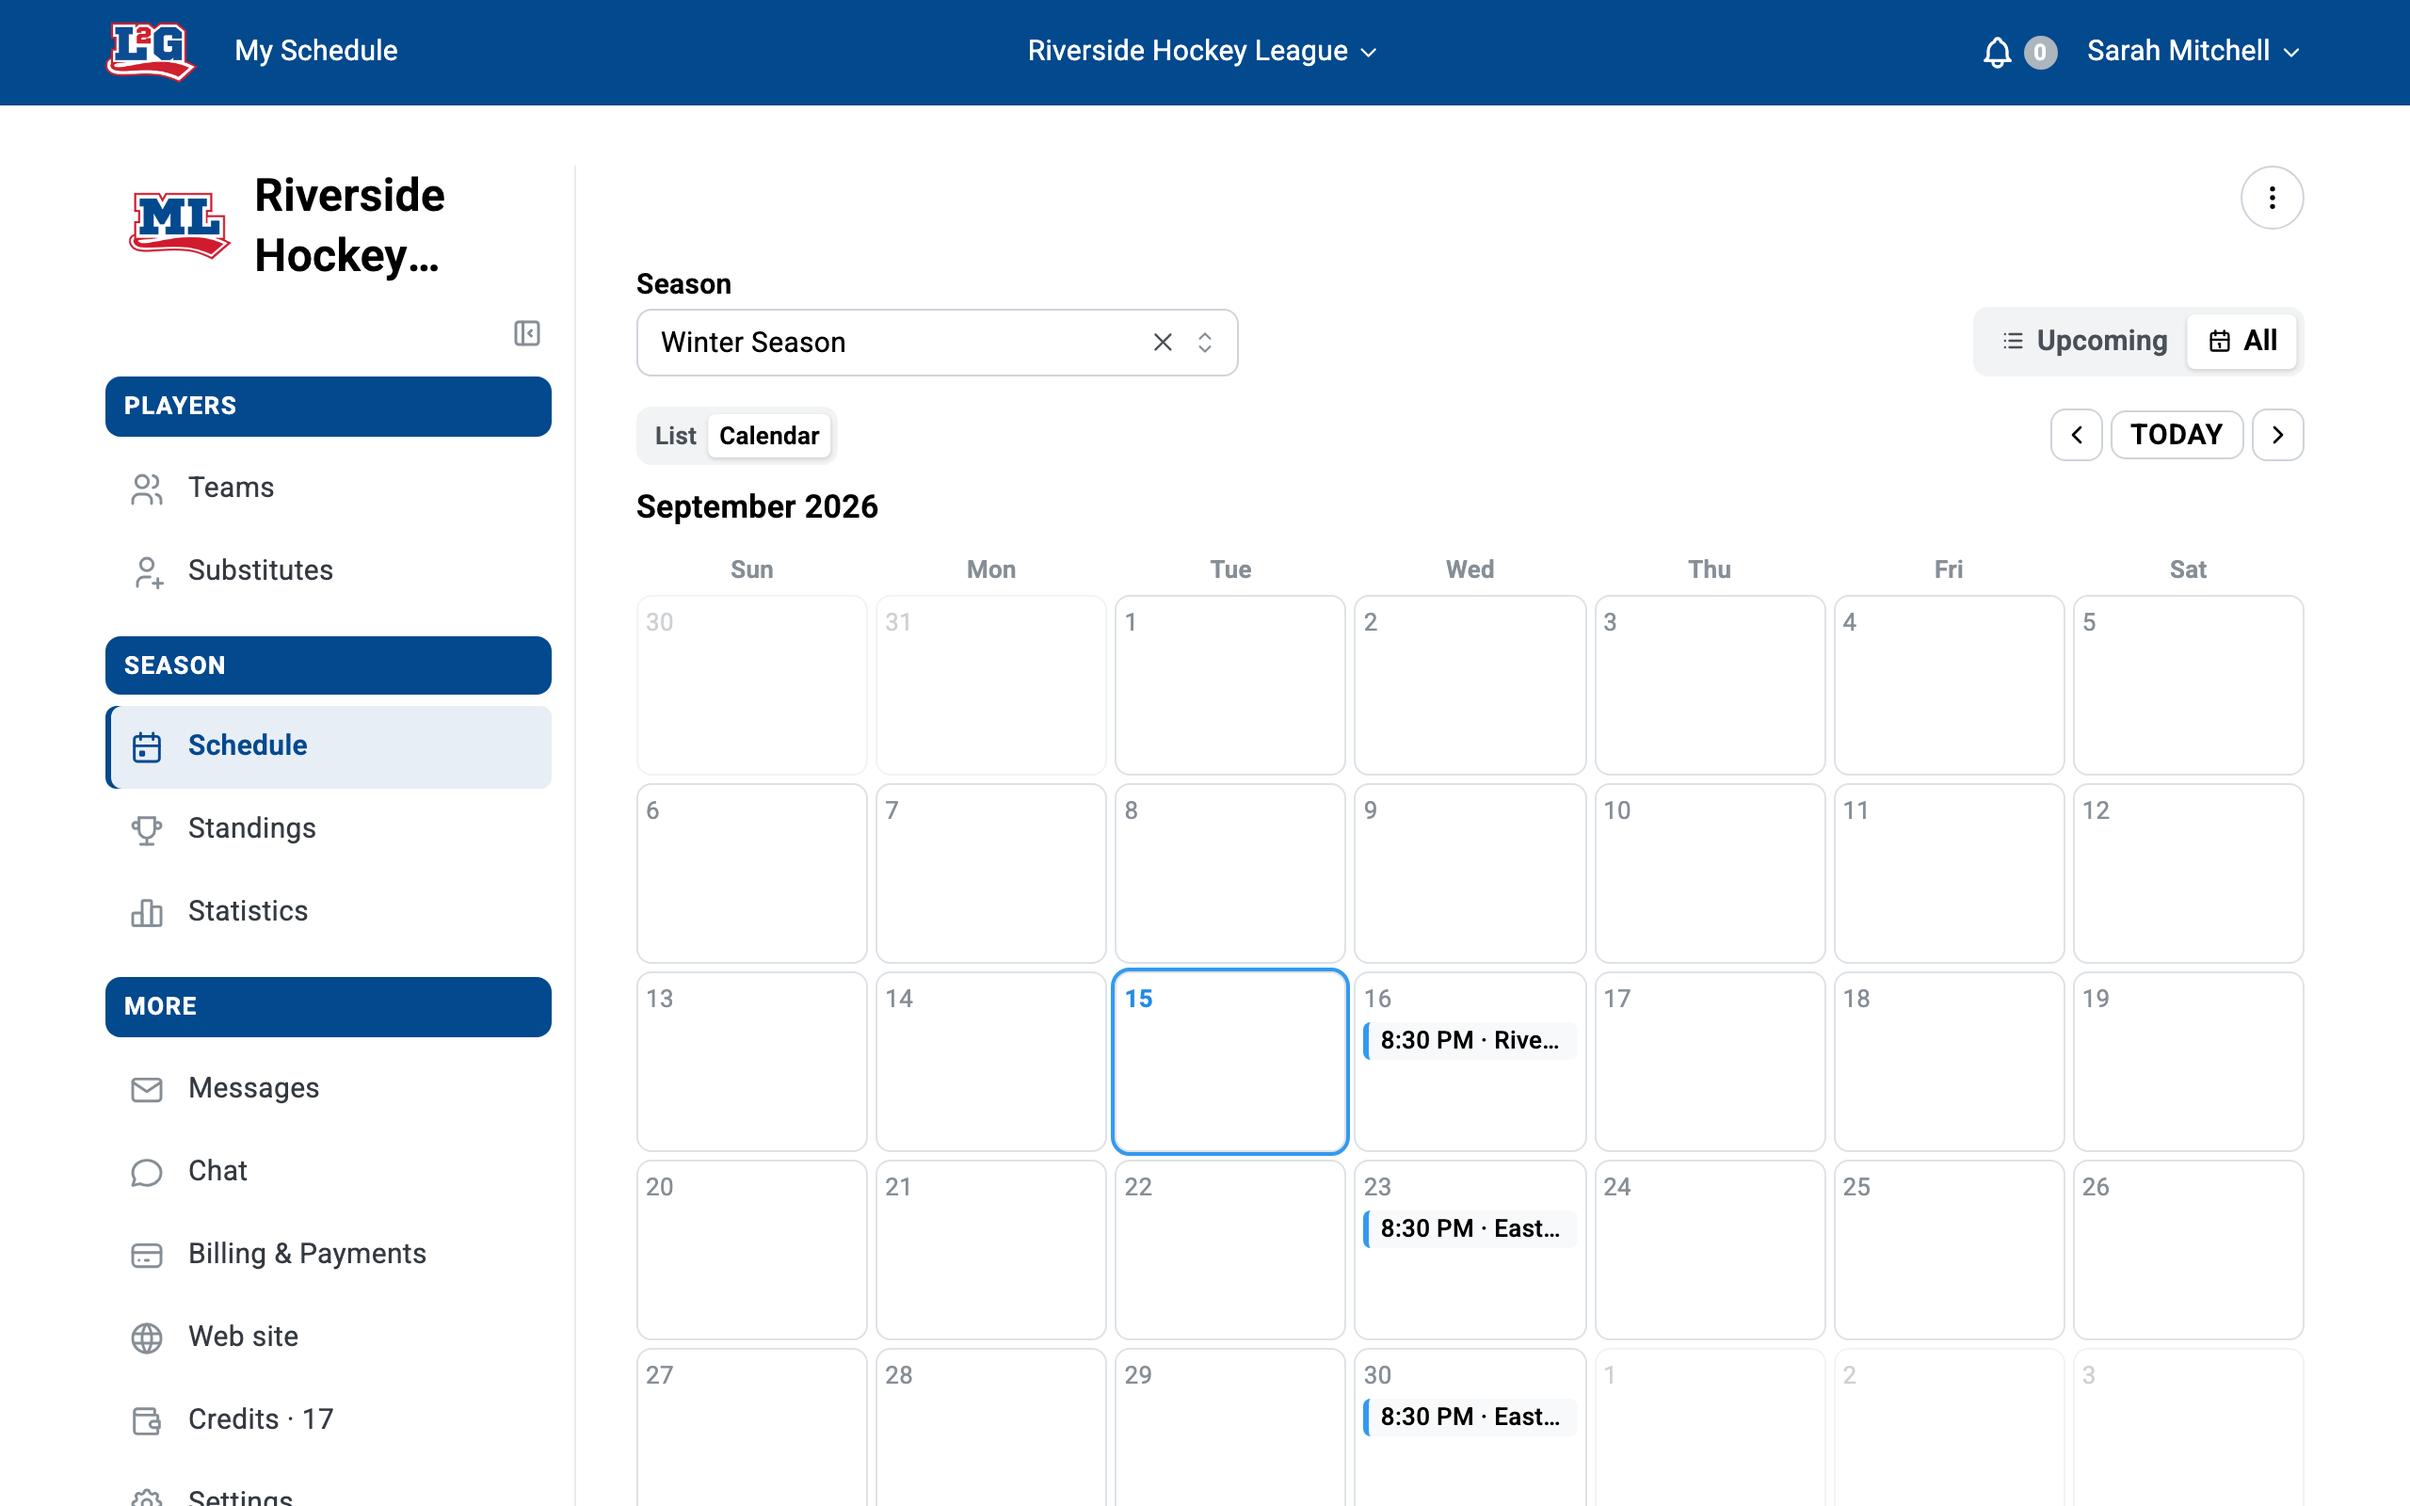
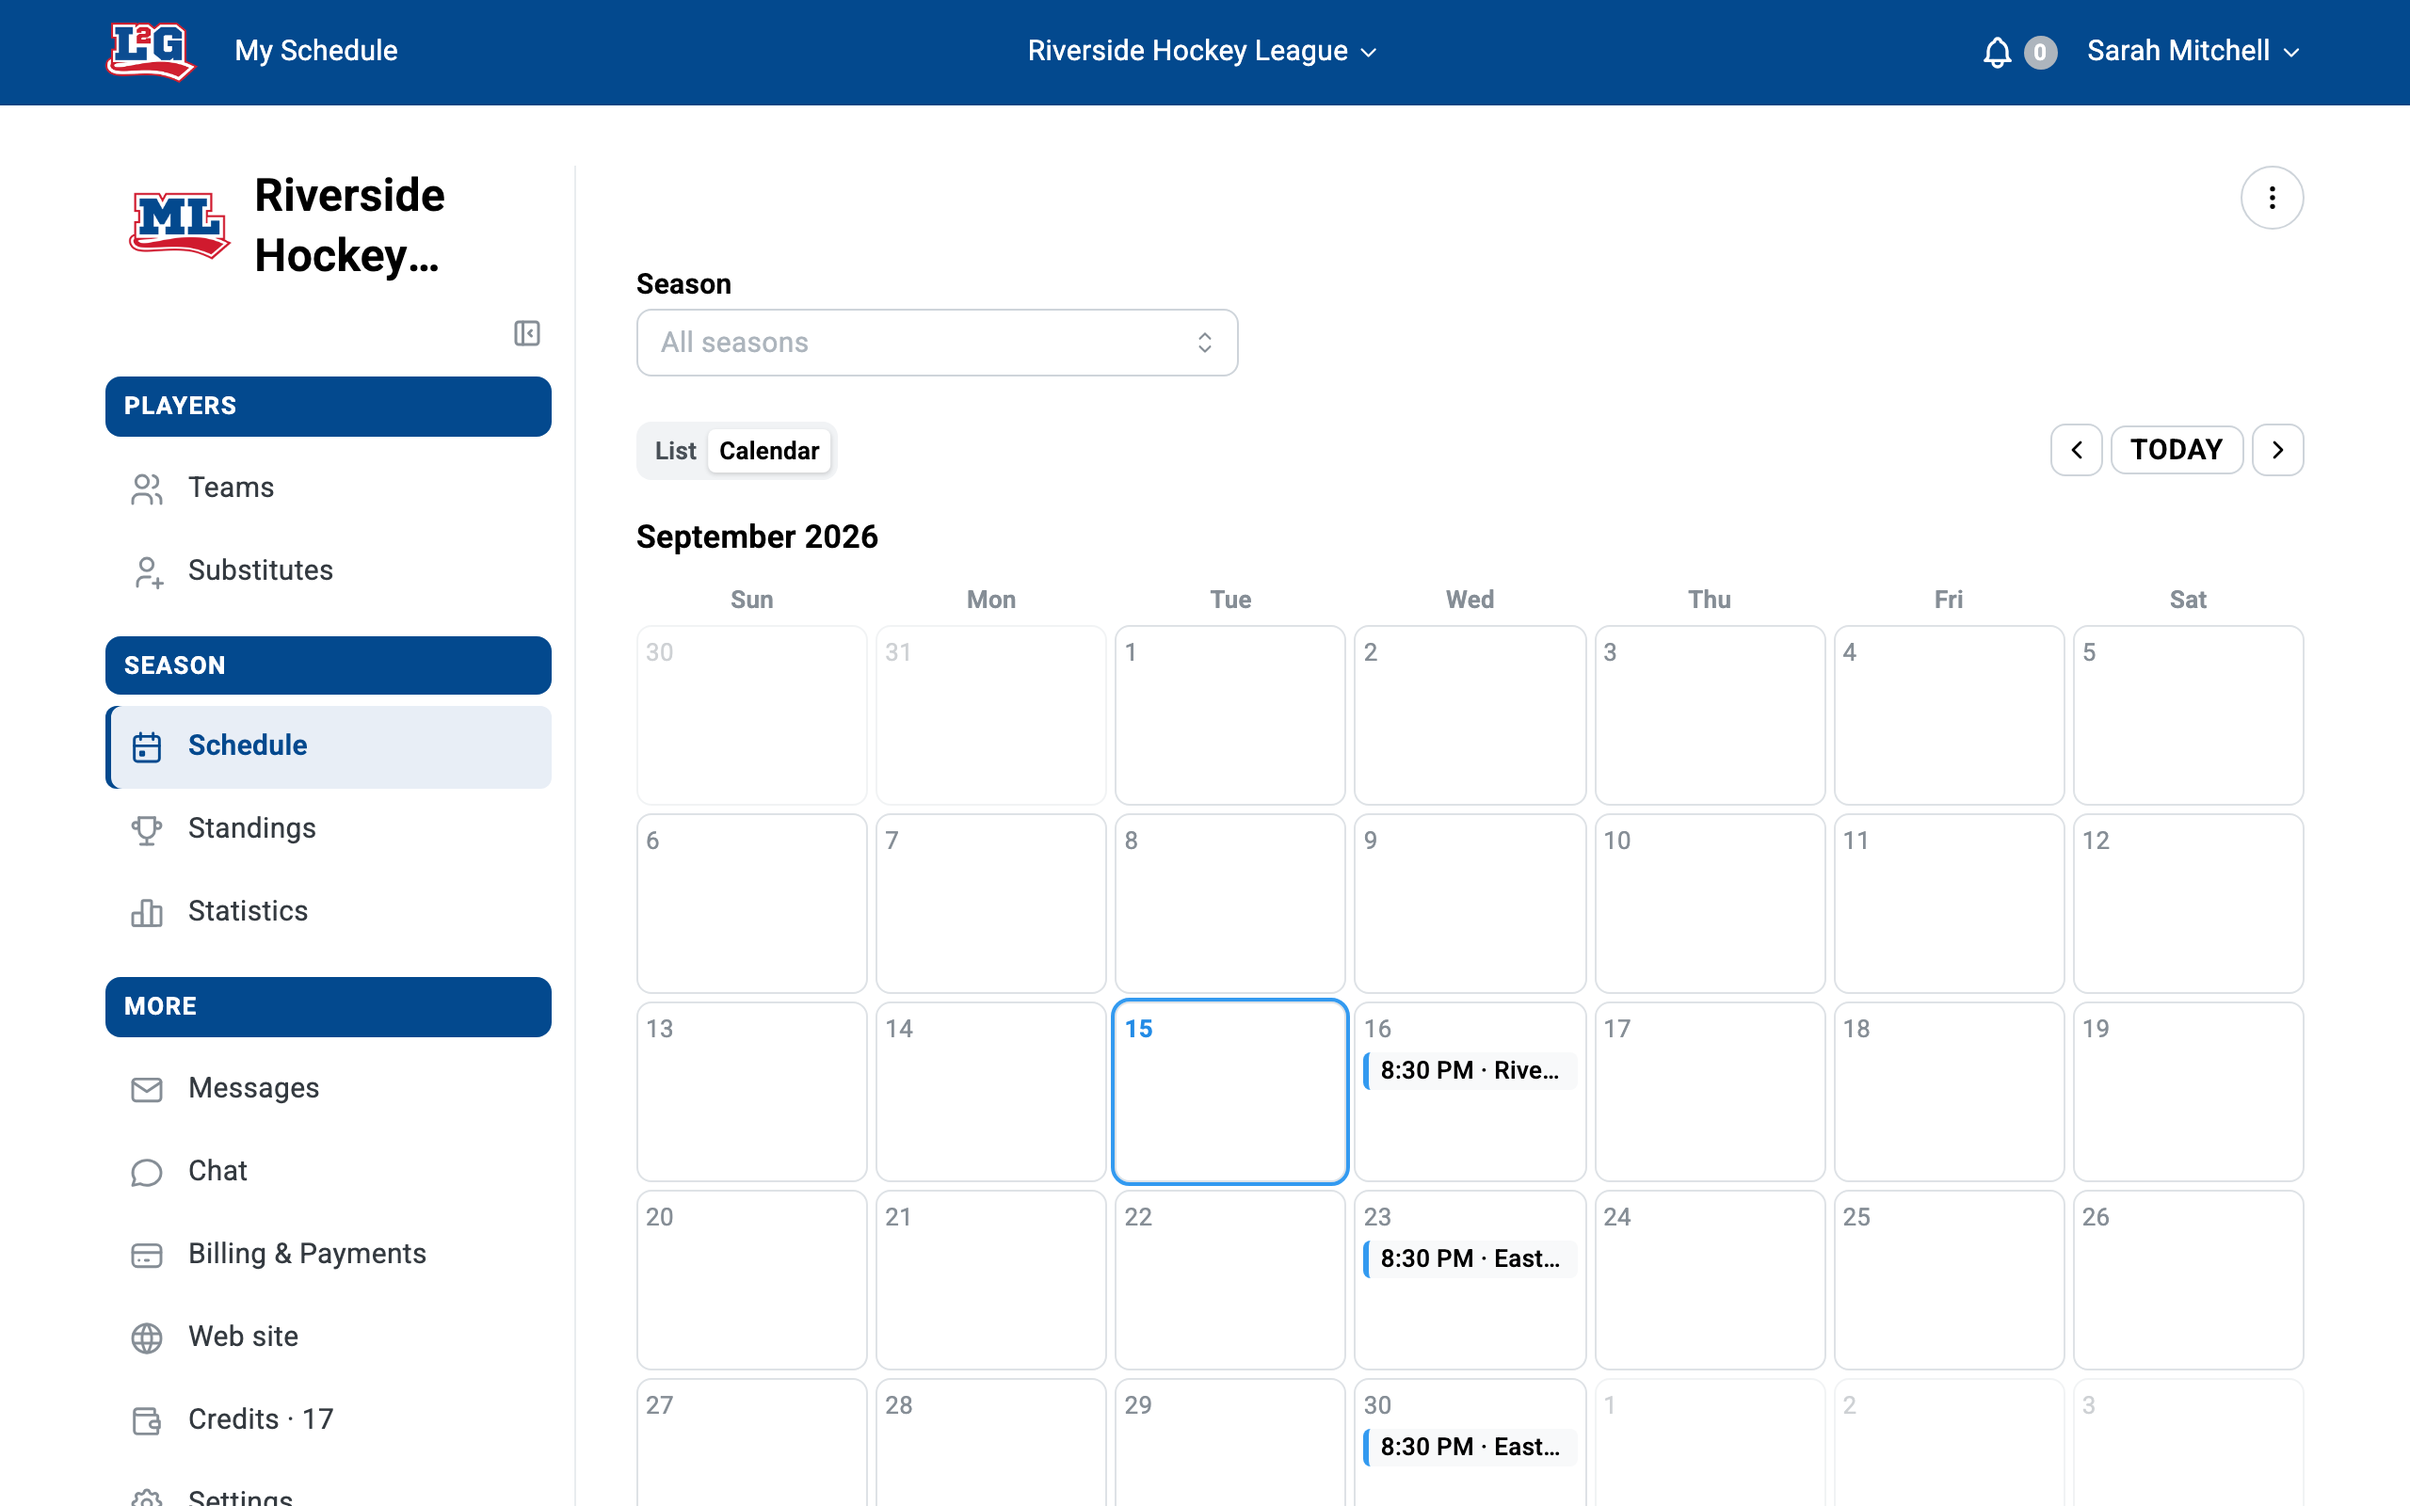
Show the one-list schedule in the help center, and say the schedule opens on every season
The manager schedule no longer has an Upcoming | All switch and opens on
all seasons, so the schedule and seasons figures are retaken from the
app, and the articles no longer say a season always filters the
schedule. The calendar colour list now matches the app (no yellow), the
schedule is reached through Season > Schedule, and three figures pick
up the absent player's jersey number.

Claude-Session: https://claude.ai/code/session_01L11YxnCwSRKNcCWoW1qXfw

diff --git a/_help/fr/saisons.md b/_help/fr/saisons.md
@@ -7,18 +7,18 @@ order: 40
 description: "Organisez les parties, le classement et les statistiques par saison, et retrouvez les parties masquées par le filtre de saison."
 ---
 
-Les saisons regroupent les parties, le classement et les statistiques de votre ligue. Chaque saison a une date de début et une date de fin, et la saison sélectionnée agit comme un filtre : le calendrier, le classement et les statistiques affichent seulement ce qui se trouve dans sa plage de dates. Vos joueurs consultent ainsi seulement les parties pertinentes à leur calendrier plutôt que des années d'historique.
+Les saisons regroupent les parties, le classement et les statistiques de votre ligue. Chaque saison a une date de début et une date de fin. Le classement et les statistiques s'ouvrent sur la saison en cours : ils repartent donc à zéro chaque année. Le calendrier s'ouvre sur **Toutes les saisons**; choisissez une saison et il affiche seulement les parties comprises dans ses dates.
 
 ## « Mes parties ont disparu »
 
-Si des parties manquent dans votre calendrier, le filtre de saison en est presque toujours la cause : les parties se trouvent en dehors de la plage de dates de la saison sélectionnée. Rien n'est supprimé : les parties sont seulement masquées.
+Si vous avez choisi une saison et que des parties manquent dans votre calendrier, le filtre de saison en est la cause : ces parties se trouvent en dehors des dates de cette saison. Rien n'est supprimé : les parties sont seulement masquées.
 
 Pour les revoir, faites l'une des deux choses suivantes :
 
-* **Effacez le filtre** : cliquez sur le **X** à côté du nom de la saison au-dessus du calendrier. Toutes les parties s'affichent de nouveau, peu importe la saison.
+* **Affichez toutes les saisons** : cliquez sur **Voir toutes les saisons** au-dessus de la liste, ou sur le **X** à côté du nom de la saison. Le calendrier revient à **Toutes les saisons**.
 * **Prolongez les dates de la saison** : dans les paramètres de votre ligue, modifiez la saison pour que ses dates de début et de fin couvrent les dates des parties.
 
-{% include image.html src="help/seasons-schedule-filter.fr.png" caption="Le calendrier de la ligue avec la saison en cours sélectionnée dans le filtre Saison; le X à côté du nom de la saison efface le filtre et affiche les parties de toutes les saisons." %}
+{% include image.html src="help/seasons-schedule-filter.fr.png" caption="Le calendrier de la ligue avec une saison choisie dans le filtre Saison; Voir toutes les saisons, ou le X à côté du nom de la saison, efface le filtre et affiche les parties de toutes les saisons." %}
 
 ## Créer une saison
 

diff --git a/_help/fr/calendrier-et-parties.md b/_help/fr/calendrier-et-parties.md
@@ -13,7 +13,7 @@ Le calendrier de la ligue est l'endroit où vous créez et gérez vos parties, s
 
 ## Créer des parties
 
-À partir de l'onglet Calendrier de votre ligue, cliquez sur le bouton **Ajouter une partie** et entrez l'information demandée. Chaque partie consomme un crédit de partie (voir [prix et crédits de partie](/prix-et-credits-de-partie/#acheter-des-crédits-de-partie)).
+Dans votre ligue, allez dans **Saison** > **Calendrier**, cliquez sur le bouton **Ajouter une partie** et entrez l'information demandée. Chaque partie consomme un crédit de partie (voir [prix et crédits de partie](/prix-et-credits-de-partie/#acheter-des-crédits-de-partie)).
 
 Si vos parties sont hebdomadaires, utilisez l'option **Répéter l'horaire des parties** pour automatiquement créer plusieurs parties avec les mêmes paramètres.
 
@@ -23,9 +23,9 @@ Si vos parties sont hebdomadaires, utilisez l'option **Répéter l'horaire des p
 
 Des codes de couleur permettent de distinguer les parties en un coup d'œil :
 
-* **Bleu** : la prochaine partie.
-* **Rouge** : les parties dans lesquelles il manque présentement des joueurs.
-* **Jaune** : les parties passées dont les résultats restent à entrer.
+* **Bleu** : les parties à venir.
+* **Rouge** : une partie à venir où il manque encore un joueur, ou une partie passée dont le pointage reste à entrer.
+* **Gris** : les parties complétées et les pratiques.
 
 {% include image.html src="help/schedule-color-codes.fr.png" caption="Les codes de couleur du calendrier mensuel : les parties à venir portent un accent bleu, une partie passée sans résultats est en rouge, et les parties complétées deviennent grises avec le pointage final." %}
 
@@ -52,7 +52,7 @@ Les parties dont l'heure de début est passée ne peuvent pas être supprimées 
 
 ## « Mes parties ont disparu »
 
-Si des parties manquent dans le calendrier, elles sont presque certainement masquées par le **filtre de saison** : les parties en dehors de la plage de dates de la saison sélectionnée ne sont pas affichées. Effacez le filtre avec le X à côté du nom de la saison, ou ajustez les dates de la saison. Voir [saisons](/saisons/#-mes-parties-ont-disparu-) pour les détails.
+Si vous avez choisi une saison et que des parties manquent, le **filtre de saison** les masque : il affiche seulement les parties comprises dans les dates de cette saison. Cliquez sur **Voir toutes les saisons** (ou sur le X à côté du nom de la saison), ou ajustez les dates de la saison. Voir [saisons](/saisons/#-mes-parties-ont-disparu-) pour les détails.
 
 ## Articles reliés
 

diff --git a/_help/en/schedule-and-calendar.md b/_help/en/schedule-and-calendar.md
@@ -13,7 +13,7 @@ The league calendar is where you create and manage your games, on the website or
 
 ## Creating games
 
-From your league's calendar tab, click the **Add game** button and enter the requested information. Each game consumes one game credit. See [pricing and game credits](/pricing-and-game-credits/#buying-game-credits).
+In your league, go to **Season** > **Schedule**, click the **Add game** button and enter the requested information. Each game consumes one game credit. See [pricing and game credits](/pricing-and-game-credits/#buying-game-credits).
 
 If your games are weekly, use the **Repeat game schedule** option to automatically create multiple games with the same settings.
 
@@ -23,9 +23,9 @@ If your games are weekly, use the **Repeat game schedule** option to automatical
 
 Color codes help you distinguish games at a glance:
 
-* **Blue**: the next game.
-* **Red**: games where players are currently missing.
-* **Yellow**: past games waiting for their results to be entered.
+* **Blue**: upcoming games.
+* **Red**: an upcoming game still missing a player, or a past game waiting for its score.
+* **Gray**: completed games and practices.
 
 {% include image.html src="help/schedule-color-codes.en.png" caption="The month calendar's color codes: upcoming games carry a blue accent, a past game still waiting for its score is red, and completed games turn gray with the final score inline." %}
 
@@ -52,7 +52,7 @@ Games whose start time has passed cannot be deleted by managers. If you need to 
 
 ## "My games disappeared"
 
-If games are missing from the calendar, they are almost certainly hidden by the **season filter**: games outside the selected season's date range are not shown. Clear the filter with the X beside the season name, or adjust the season dates. See [seasons](/seasons/#my-games-disappeared) for details.
+If you picked a season and games are missing, the **season filter** is hiding them: it only shows games inside that season's dates. Click **Show all seasons** (or the X beside the season name), or adjust the season dates. See [seasons](/seasons/#my-games-disappeared) for details.
 
 ## Related articles
 

diff --git a/_help/en/seasons.md b/_help/en/seasons.md
@@ -7,18 +7,18 @@ order: 40
 description: "Organize games, standings, and statistics by season, and find games hidden by the season filter."
 ---
 
-Seasons group your league's games, standings, and statistics. Each season has a start and end date, and the selected season acts as a filter: the calendar, standings, and statistics only show what falls inside its date range. This keeps players focused on the current schedule instead of years of history.
+Seasons group your league's games, standings, and statistics. Each season has a start and end date. Standings and statistics open on the current season, so they start fresh each year. The schedule opens on **All seasons**; pick a season and it only shows the games inside that season's dates.
 
 ## "My games disappeared"
 
-If games are missing from your calendar, the season filter is almost always the reason: the games fall outside the date range of the currently selected season. Nothing is deleted; the games are only hidden.
+If you picked a season and games are missing from your schedule, the season filter is the reason: those games fall outside that season's dates. Nothing is deleted; the games are only hidden.
 
 To see them again, do one of the following:
 
-* **Clear the filter**: click the **X** beside the season name above the calendar. All games are shown again, regardless of season.
+* **Show every season**: click **Show all seasons** above the list, or the **X** beside the season name. The schedule goes back to **All seasons**.
 * **Extend the season dates**: in your league settings, edit the season so its start and end dates cover the games' dates.
 
-{% include image.html src="help/seasons-schedule-filter.en.png" caption="The league schedule with the current season selected in the Season filter; the X beside the season name clears the filter and shows every season's games." %}
+{% include image.html src="help/seasons-schedule-filter.en.png" caption="The league schedule with a season picked in the Season filter; Show all seasons, or the X beside the season name, clears the filter and shows every season's games." %}
 
 ## Creating a season
 
